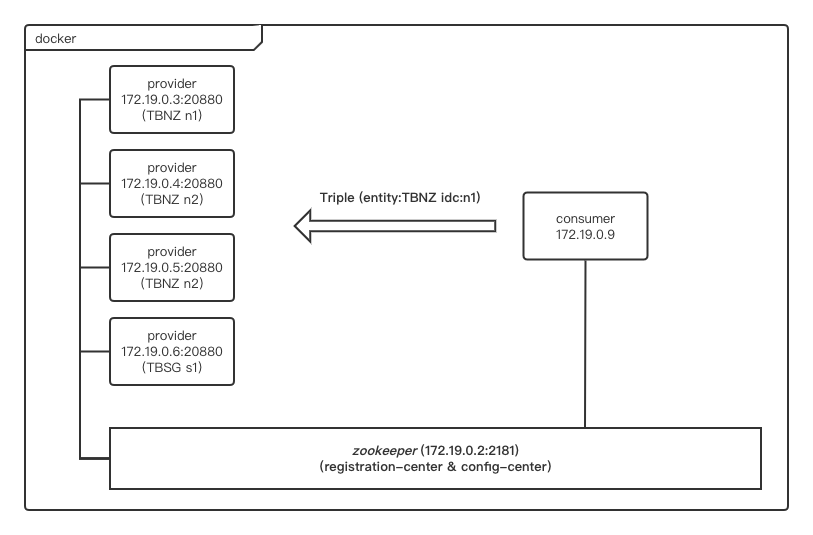
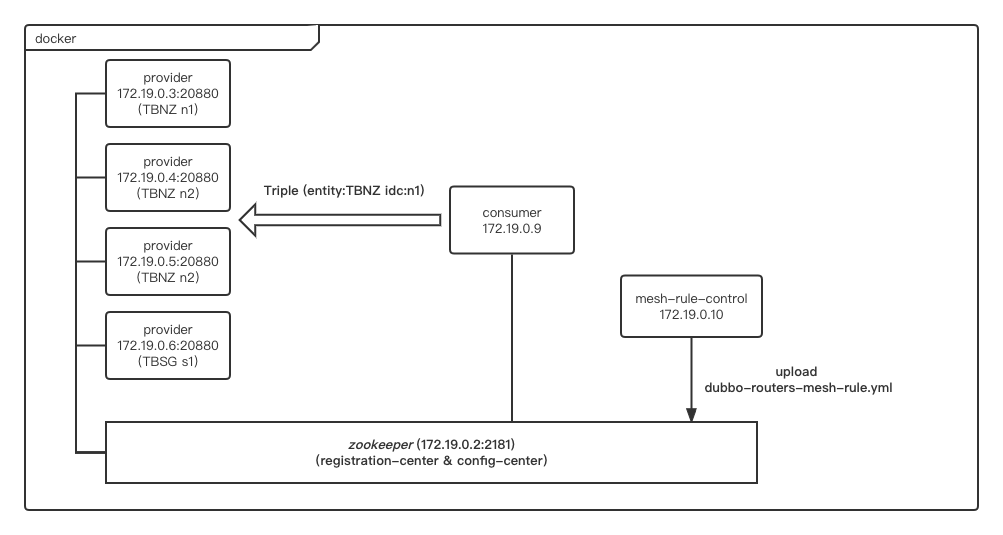
refactor mesh-rule-demo: 剥离mesh-rule规则初始化方式

diff --git a/mesh-rule-demo/mesh-rule-control/src/main/java/com/wangyy/mesh/rule/control/RuleUtil.java b/mesh-rule-demo/mesh-rule-control/src/main/java/com/wangyy/mesh/rule/control/RuleUtil.java
@@ -1,4 +1,4 @@
-package com.wangyy.mesh.rule.provider.utils;
+package com.wangyy.mesh.rule.control;
 
 import org.apache.curator.framework.CuratorFramework;
 import org.apache.curator.framework.CuratorFrameworkFactory;
@@ -11,7 +11,9 @@ public class RuleUtil {
     private static String zookeeperHost = System.getProperty("zookeeper.address", "172.19.0.2");
     private static CuratorFramework client;
 
-    private static final String RULE_CONF_NODE_LOCATION = "/dubbo/config/dubbo/mesh-rule-provider.MESHAPPRULE";
+    private static final String RULE_CONF_FILE_PATH = "/dubbo-routers-mesh-rule.yml";
+
+    private static final String RULE_CONF_ZK_NODE_LOCATION = "/dubbo/config/dubbo/mesh-rule-provider.MESHAPPRULE";
 
     public static void main(String[] args) throws Exception {
         initClient();
@@ -25,8 +27,8 @@ public class RuleUtil {
     }
 
     public static void generateRule() {
-        try (InputStream yamlStream = RuleUtil.class.getResourceAsStream("/dubbo-routers-mesh-rule.yml")) {
-            String path = RULE_CONF_NODE_LOCATION;
+        try (InputStream yamlStream = RuleUtil.class.getResourceAsStream(RULE_CONF_FILE_PATH)) {
+            String path = RULE_CONF_ZK_NODE_LOCATION;
             if (client.checkExists().forPath(path) == null) {
                 client.create().creatingParentsIfNeeded().forPath(path);
             }
@@ -37,7 +39,7 @@ public class RuleUtil {
     }
 
     public static void deleteRule() throws Exception {
-        String path = RULE_CONF_NODE_LOCATION;
+        String path = RULE_CONF_ZK_NODE_LOCATION;
         if (client.checkExists().forPath(path) == null) {
             client.create().creatingParentsIfNeeded().forPath(path);
         }

diff --git a/mesh-rule-demo/mesh-rule-control/src/main/java/com/wangyy/mesh/rule/control/MeshRuleControlApplication.java b/mesh-rule-demo/mesh-rule-control/src/main/java/com/wangyy/mesh/rule/control/MeshRuleControlApplication.java
@@ -1,0 +1,23 @@
+package com.wangyy.mesh.rule.control;
+
+
+import org.springframework.boot.autoconfigure.SpringBootApplication;
+import org.springframework.boot.builder.SpringApplicationBuilder;
+
+@SpringBootApplication
+public class MeshRuleControlApplication {
+
+    public static void main(String[] args) {
+        new SpringApplicationBuilder(MeshRuleControlApplication.class).run(args);
+
+        initMeshRule();
+    }
+
+    private static void initMeshRule() {
+        RuleUtil.initClient();
+        RuleUtil.generateRule();
+
+        System.out.println("mesh-rule init");
+    }
+
+}

diff --git a/mesh-rule-demo/mesh-rule-control/src/main/java/com/wangyy/mesh/rule/control/Controller.java b/mesh-rule-demo/mesh-rule-control/src/main/java/com/wangyy/mesh/rule/control/Controller.java
@@ -1,0 +1,17 @@
+package com.wangyy.mesh.rule.control;
+
+import org.springframework.web.bind.annotation.PostMapping;
+import org.springframework.web.bind.annotation.RequestMapping;
+import org.springframework.web.bind.annotation.RestController;
+
+@RestController
+@RequestMapping("/mesh-rule-control")
+public class Controller {
+
+    @PostMapping("/rule/reload")
+    public Object reload() {
+        RuleUtil.initClient();
+        RuleUtil.generateRule();
+        return "mesh-rule conf reload";
+    }
+}

diff --git a/mesh-rule-demo/mesh-rule-consumer/src/main/java/com/wangyy/mesh/rule/consumer/MeshRuleConsumerApplication.java b/mesh-rule-demo/mesh-rule-consumer/src/main/java/com/wangyy/mesh/rule/consumer/MeshRuleConsumerApplication.java
@@ -30,7 +30,7 @@ public class MeshRuleConsumerApplication {
                 if (idc != null) {
                     RpcContext.getServiceContext().setAttachment("idc", idc);
                 }
-                String request = "consumer[entity=" + entity + " idc=" + idc + "]";
+                String request = "Consumer[entity=" + entity + " idc=" + idc + "]";
                 String result = demoService.hello(request);
                 System.out.println(result);
                 sleep(500);

diff --git a/README.md b/README.md
@@ -2,10 +2,19 @@
 dubbo3 服务治理demo
 
 ## mesh-rule-demo
-triple | docker | mesh-route | 统一路由配置 | 同机房路由demo
+triple | docker | spring-boot | mesh-route | 统一路由配置 | 同机房路由demo
 
 * 环境准备
 docker & jdk1.8 & maven & git
+
+#### 说明
+> * entity代表牌照信息: TBNZ TBSG
+> * idc代表机房信息: n1 n2 s1
+> * 路由策略见 /dubbo-route-demo/mesh-rule-demo/mesh-rule-provider/src/main/resources/dubbo-routers-mesh-rule.yml (相同机房优先路由,fallback牌照路由)
+> * consumer请求attachment中写入entity与idc信息，根据此信息选择路由策略并执行请求
+
+![image](https://github.com/wangyy2113/dubbo-route-demo/blob/main/mesh-rule-demo/mesh-rule-demo.png)
+
 
 #### 运行
 
@@ -20,39 +29,36 @@ cd dubbo-route-demo/mesh-rule-demo
 docker network create --subnet=172.19.0.0/16 dubbo-route-demo-bridge
 ```
 
-2. start zookeeper
+3. start zookeeper
 ```sh
 sh zookeeper-bootstrap.sh
 ```
 
-3. start provider
+4. init mesh-rule (路由规则初始化，将路由规则上传config-center)
+```sh
+cd mesh-rule-control && sh rule-control-bootstrap.sh && cd ..
+```
+
+5. start provider
 ```sh
 cd mesh-rule-provider && sh provider-bootstrap.sh && cd ..
 ```
 
-4. start consumer (consumer前台运行，以便观察控制台日志输出)
+6. start consumer (consumer前台运行，以便观察控制台日志输出，consumer初始默认entity=TBNZ idc=n1)
 ```sh
 cd mesh-rule-consumer && sh consumer-bootstrap.sh && cd ..
 ```
 
-5. 修改consumer请求attachment观察consumer控制台日志返回路由变化
+7. 修改consumer请求attachment(entity & idc)观察consumer控制台日志返回路由变化; 期间也可以停掉部分provider，观察consumer请求路由变化
 ```sh
-curl -X POST 127.0.0.1:8089/mesh-rule-demo/consumer/context?entity=TBNZ&idc=n1
+curl 127.0.0.1:8089/mesh-rule-demo/consumer/context -X POST -d 'entity=TBNZ&idc=n1'
 
-curl -X POST 127.0.0.1:8089/mesh-rule-demo/consumer/context?entity=TBNZ&idc=n2
+curl 127.0.0.1:8089/mesh-rule-demo/consumer/context -X POST -d 'entity=TBNZ&idc=n2'
 
-curl -X POST 127.0.0.1:8089/mesh-rule-demo/consumer/context?entity=TBSG&idc=s1
+curl 127.0.0.1:8089/mesh-rule-demo/consumer/context -X POST -d 'entity=TBSG&idc=s1'
 ```
 
-6. 停止服务
+8. 停止服务
 ```sh
 sh stop-all.sh
 ```
-
-#### 说明
-> * entity代表牌照信息: TBNZ TBSG
-> * idc代表机房信息: n1 n2 s1
-> * 路由策略见 /dubbo-route-demo/mesh-rule-demo/mesh-rule-provider/src/main/resources/dubbo-routers-mesh-rule.yml （路由策略生命周期是独立与服务的，不该放到provider里，这里单纯是因为方便demo执行）
-> * consumer请求attachment中写入entity与idc信息，根据此信息选择路由策略并执行请求
-
-![image](https://github.com/wangyy2113/dubbo-route-demo/blob/main/mesh-rule-demo/mesh-rule-demo.png)
